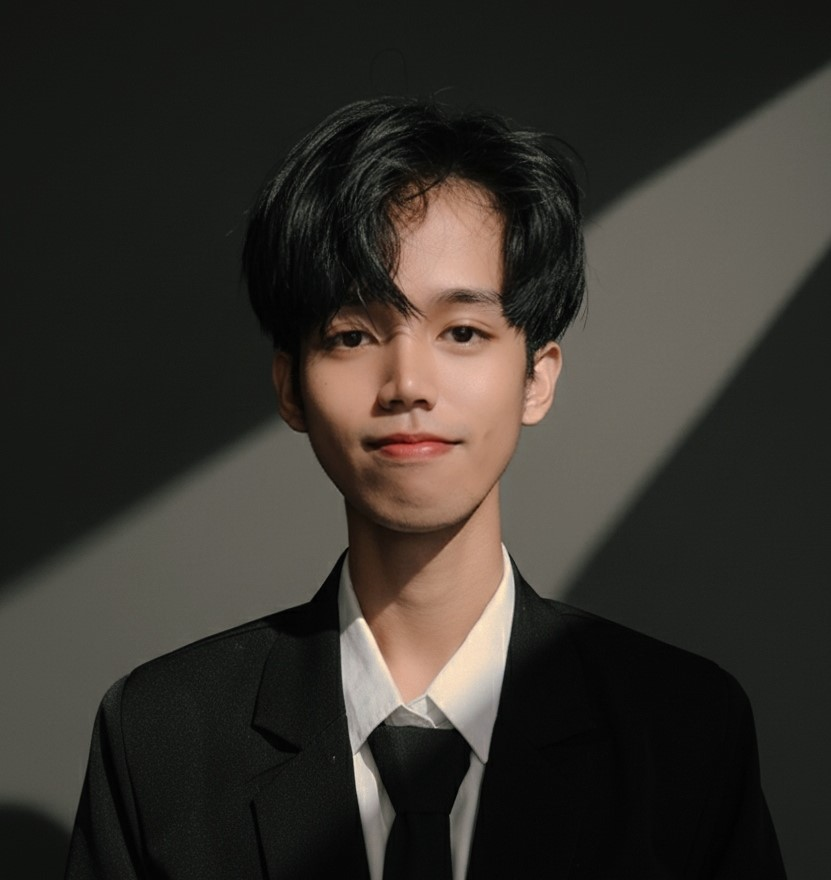
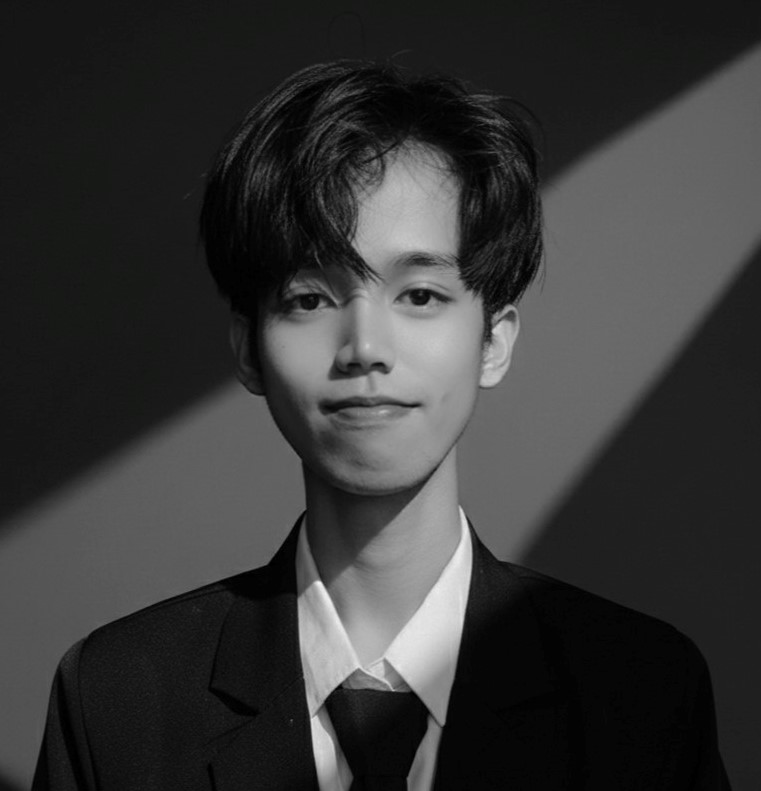
memperbaiki warna pp

diff --git a/index.html b/index.html
@@ -195,6 +195,7 @@
             margin-bottom: 1.5rem;
             max-width: 90%;
             font-weight: 400;
+            margin-top: -20px;
         }
         
         .getting-started-btn {
@@ -2150,9 +2151,8 @@
                     <div class="typing-container">
                         <h1 class="typing-text">Ali Khatami</h1>
                     </div>
-                    <p class="cover-subtitle">Fresh Graduate</p>
                     <p class="portfolio-description">
-                        Saya adalah seorang fresh graduate Universitas Mulawarman. Spesialisasi saya mencakup front-end dan back-end development.
+                        Fresh Graduate | Fullstack Web Developer | Social Media Specialist | Digital Artist
                     </p>
                     <a href="#skills" class="getting-started-btn">
                         Getting Started
